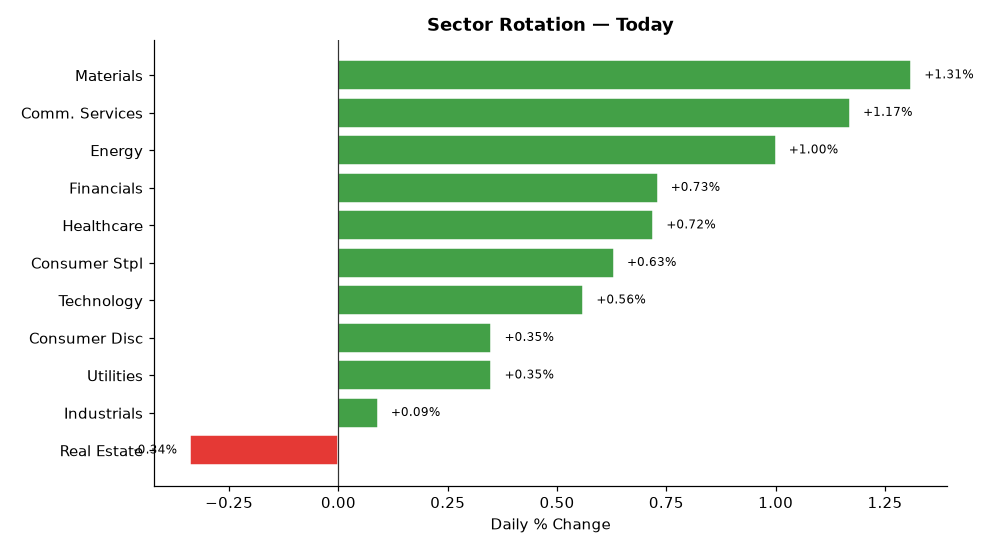
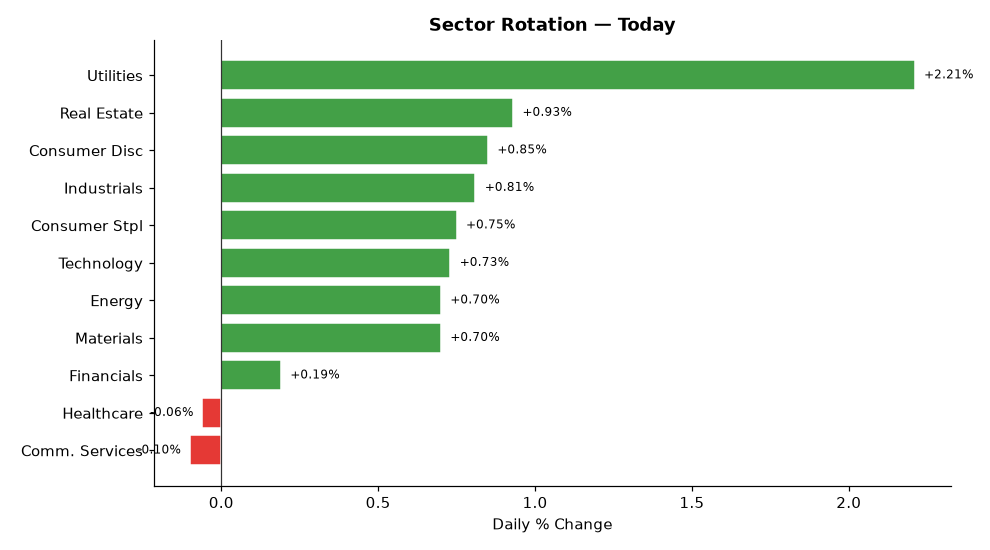
deploy: b7fadf5b06deb90e7ebb92f278722414bdd9750d

diff --git a/index.html b/index.html
@@ -4,7 +4,7 @@
   <meta charset="UTF-8">
   <meta name="viewport" content="width=device-width,initial-scale=1">
   <meta http-equiv="Cache-Control" content="no-cache,no-store,must-revalidate">
-  <title>Stock Breakout Screener — 2026-10-06 05:44</title>
+  <title>Stock Breakout Screener — 2026-10-06 18:44</title>
   <style>
     *{box-sizing:border-box;margin:0;padding:0}
     body{font-family:'Segoe UI',Arial,sans-serif;background:#f0f2f5;
@@ -34,7 +34,7 @@
 
 <div class="hdr">
   <h1>📈 Stock Breakout Screener</h1>
-  <p>Updated: 2026-10-06 05:44 UTC &nbsp;·&nbsp; Phase: Pre-Market (before 9:30 AM ET) &nbsp;·&nbsp;
+  <p>Updated: 2026-10-06 18:44 UTC &nbsp;·&nbsp; Phase: Regular Market Hours &nbsp;·&nbsp;
      129 stocks screened &nbsp;·&nbsp; Top 5 by conviction score</p>
 </div>
 
@@ -42,13 +42,13 @@
   <strong style="font-size:14px">Market Sentiment: 🐻 Bearish</strong>
   <div class="bar-wrap" style="margin-top:10px">
     <div style="width:0%;background:#43a047"></div>
-    <div style="width:5%;background:#fdd835"></div>
-    <div style="width:95%;background:#e53935"></div>
+    <div style="width:7%;background:#fdd835"></div>
+    <div style="width:93%;background:#e53935"></div>
   </div>
   <div style="font-size:12px;color:#555">
     🟢 Strong 0% &nbsp;
-    🟡 Moderate 5% &nbsp;
-    🔴 Weak 95%
+    🟡 Moderate 7% &nbsp;
+    🔴 Weak 93%
   </div>
 </div>
 
@@ -65,11 +65,11 @@
             <span style="margin-left:auto;background:#1a237e;color:#fff;
                          padding:3px 12px;border-radius:12px;
                          font-size:13px;font-weight:600">
-              9/17
+              10/17
             </span>
           </div>
           <ul style="margin:0;padding-left:18px;font-size:13px;
-                     color:#333;line-height:1.8"><li style="margin:5px 0"><span style="background:#ffebee;color:#b71c1c;padding:2px 7px;border-radius:4px;font-size:11px;">❌</span> Volume: <b>0.8× average</b> — Above-average activity</li><li style="margin:5px 0"><span style="background:#ffebee;color:#b71c1c;padding:2px 7px;border-radius:4px;font-size:11px;">❌</span> Candle: close <b>$525.18</b> vs open <b>$521.62</b> (+0.7%) — regular market close</li><li style="margin:5px 0"><span style="background:#e8f5e9;color:#2e7d32;padding:2px 7px;border-radius:4px;font-size:11px;">✅</span> 200-Day MA: price <b>$525.18</b> vs MA <b>$436.16</b> — <b>✅ Above</b> long-term trend</li><li style="margin:5px 0"><span style="background:#e8f5e9;color:#2e7d32;padding:2px 7px;border-radius:4px;font-size:11px;">✅</span> Inst. ownership: <b>75.8%</b> · MFI: <b>72.5</b> · Market cap: <b>$3899.7B</b></li><li style="margin:5px 0"><span style="background:#e8f5e9;color:#2e7d32;padding:2px 7px;border-radius:4px;font-size:11px;">✅</span> Last similar breakout: <b>Jul 30, 2026</b> → <b>+10.1%</b> over 10 trading days</li></ul>
+                     color:#333;line-height:1.8"><li style="margin:5px 0"><span style="background:#ffebee;color:#b71c1c;padding:2px 7px;border-radius:4px;font-size:11px;">❌</span> Volume: <b>0.4× average</b> — Above-average activity</li><li style="margin:5px 0"><span style="background:#ffebee;color:#b71c1c;padding:2px 7px;border-radius:4px;font-size:11px;">❌</span> Candle: close <b>$530.79</b> vs open <b>$531.68</b> (-0.2%) — regular market close</li><li style="margin:5px 0"><span style="background:#e8f5e9;color:#2e7d32;padding:2px 7px;border-radius:4px;font-size:11px;">✅</span> 200-Day MA: price <b>$530.79</b> vs MA <b>$436.90</b> — <b>✅ Above</b> long-term trend</li><li style="margin:5px 0"><span style="background:#e8f5e9;color:#2e7d32;padding:2px 7px;border-radius:4px;font-size:11px;">✅</span> Inst. ownership: <b>75.8%</b> · MFI: <b>77.1</b> · Market cap: <b>$3941.8B</b></li><li style="margin:5px 0"><span style="background:#e8f5e9;color:#2e7d32;padding:2px 7px;border-radius:4px;font-size:11px;">✅</span> Last similar breakout: <b>Jul 30, 2026</b> → <b>+10.1%</b> over 10 trading days</li></ul>
         </div>
         <div style="background:#fff;border:1px solid #ddd;border-radius:10px;
                     padding:16px 20px;margin-bottom:12px;
@@ -77,7 +77,24 @@
           <div style="display:flex;align-items:center;gap:10px;
                       flex-wrap:wrap;margin-bottom:10px">
             <span style="font-size:22px">🟡</span>
-            <span style="font-size:19px;font-weight:700">2. META</span>
+            <span style="font-size:19px;font-weight:700">2. AMZN</span>
+            <span style="font-size:12px;color:#666">Consumer Disc</span>
+            <span style="margin-left:auto;background:#1a237e;color:#fff;
+                         padding:3px 12px;border-radius:12px;
+                         font-size:13px;font-weight:600">
+              9/17
+            </span>
+          </div>
+          <ul style="margin:0;padding-left:18px;font-size:13px;
+                     color:#333;line-height:1.8"><li style="margin:5px 0"><span style="background:#ffebee;color:#b71c1c;padding:2px 7px;border-radius:4px;font-size:11px;">❌</span> Volume: <b>0.5× average</b> — Above-average activity</li><li style="margin:5px 0"><span style="background:#ffebee;color:#b71c1c;padding:2px 7px;border-radius:4px;font-size:11px;">❌</span> Candle: close <b>$256.15</b> vs open <b>$253.40</b> (+1.1%) — regular market close</li><li style="margin:5px 0"><span style="background:#e8f5e9;color:#2e7d32;padding:2px 7px;border-radius:4px;font-size:11px;">✅</span> 200-Day MA: price <b>$256.15</b> vs MA <b>$253.21</b> — <b>✅ Above</b> long-term trend</li><li style="margin:5px 0"><span style="background:#e8f5e9;color:#2e7d32;padding:2px 7px;border-radius:4px;font-size:11px;">✅</span> Inst. ownership: <b>68.7%</b> · MFI: <b>64.1</b> · Market cap: <b>$2763.0B</b></li></ul>
+        </div>
+        <div style="background:#fff;border:1px solid #ddd;border-radius:10px;
+                    padding:16px 20px;margin-bottom:12px;
+                    box-shadow:0 2px 6px rgba(0,0,0,.07)">
+          <div style="display:flex;align-items:center;gap:10px;
+                      flex-wrap:wrap;margin-bottom:10px">
+            <span style="font-size:22px">🟡</span>
+            <span style="font-size:19px;font-weight:700">3. META</span>
             <span style="font-size:12px;color:#666">Comm. Services</span>
             <span style="margin-left:auto;background:#1a237e;color:#fff;
                          padding:3px 12px;border-radius:12px;
@@ -86,7 +103,7 @@
             </span>
           </div>
           <ul style="margin:0;padding-left:18px;font-size:13px;
-                     color:#333;line-height:1.8"><li style="margin:5px 0"><span style="background:#ffebee;color:#b71c1c;padding:2px 7px;border-radius:4px;font-size:11px;">❌</span> Volume: <b>0.8× average</b> — Above-average activity</li><li style="margin:5px 0"><span style="background:#ffebee;color:#b71c1c;padding:2px 7px;border-radius:4px;font-size:11px;">❌</span> Candle: close <b>$741.90</b> vs open <b>$727.71</b> (+1.9%) — regular market close</li><li style="margin:5px 0"><span style="background:#e8f5e9;color:#2e7d32;padding:2px 7px;border-radius:4px;font-size:11px;">✅</span> 200-Day MA: price <b>$741.90</b> vs MA <b>$620.60</b> — <b>✅ Above</b> long-term trend</li><li style="margin:5px 0"><span style="background:#e8f5e9;color:#2e7d32;padding:2px 7px;border-radius:4px;font-size:11px;">✅</span> Inst. ownership: <b>79.0%</b> · MFI: <b>67.1</b> · Market cap: <b>$1890.0B</b></li><li style="margin:5px 0"><span style="background:#fffde7;color:#f57f17;padding:2px 7px;border-radius:4px;font-size:11px;">⚠</span> Last similar breakout: <b>Sep 21, 2026</b> → <b>+0.1%</b> over 10 trading days</li></ul>
+                     color:#333;line-height:1.8"><li style="margin:5px 0"><span style="background:#ffebee;color:#b71c1c;padding:2px 7px;border-radius:4px;font-size:11px;">❌</span> Volume: <b>0.4× average</b> — Above-average activity</li><li style="margin:5px 0"><span style="background:#ffebee;color:#b71c1c;padding:2px 7px;border-radius:4px;font-size:11px;">❌</span> Candle: close <b>$742.91</b> vs open <b>$746.80</b> (-0.5%) — regular market close</li><li style="margin:5px 0"><span style="background:#e8f5e9;color:#2e7d32;padding:2px 7px;border-radius:4px;font-size:11px;">✅</span> 200-Day MA: price <b>$742.91</b> vs MA <b>$621.55</b> — <b>✅ Above</b> long-term trend</li><li style="margin:5px 0"><span style="background:#e8f5e9;color:#2e7d32;padding:2px 7px;border-radius:4px;font-size:11px;">✅</span> Inst. ownership: <b>79.0%</b> · MFI: <b>66.2</b> · Market cap: <b>$1892.5B</b></li><li style="margin:5px 0"><span style="background:#fffde7;color:#f57f17;padding:2px 7px;border-radius:4px;font-size:11px;">⚠</span> Last similar breakout: <b>Sep 21, 2026</b> → <b>+0.1%</b> over 10 trading days</li></ul>
         </div>
         <div style="background:#fff;border:1px solid #ddd;border-radius:10px;
                     padding:16px 20px;margin-bottom:12px;
@@ -94,8 +111,8 @@
           <div style="display:flex;align-items:center;gap:10px;
                       flex-wrap:wrap;margin-bottom:10px">
             <span style="font-size:22px">🟡</span>
-            <span style="font-size:19px;font-weight:700">3. VLO</span>
-            <span style="font-size:12px;color:#666">Energy</span>
+            <span style="font-size:19px;font-weight:700">4. CSCO</span>
+            <span style="font-size:12px;color:#666">Technology</span>
             <span style="margin-left:auto;background:#1a237e;color:#fff;
                          padding:3px 12px;border-radius:12px;
                          font-size:13px;font-weight:600">
@@ -103,7 +120,7 @@
             </span>
           </div>
           <ul style="margin:0;padding-left:18px;font-size:13px;
-                     color:#333;line-height:1.8"><li style="margin:5px 0"><span style="background:#ffebee;color:#b71c1c;padding:2px 7px;border-radius:4px;font-size:11px;">❌</span> Volume: <b>0.8× average</b> — Above-average activity</li><li style="margin:5px 0"><span style="background:#e8f5e9;color:#2e7d32;padding:2px 7px;border-radius:4px;font-size:11px;">✅</span> Candle: close <b>$419.33</b> vs open <b>$404.99</b> (+3.5%) — regular market close</li><li style="margin:5px 0"><span style="background:#e8f5e9;color:#2e7d32;padding:2px 7px;border-radius:4px;font-size:11px;">✅</span> 200-Day MA: price <b>$419.33</b> vs MA <b>$295.26</b> — <b>✅ Above</b> long-term trend</li><li style="margin:5px 0"><span style="background:#e8f5e9;color:#2e7d32;padding:2px 7px;border-radius:4px;font-size:11px;">✅</span> Inst. ownership: <b>87.1%</b> · MFI: <b>58.6</b> · Market cap: <b>$120.7B</b></li></ul>
+                     color:#333;line-height:1.8"><li style="margin:5px 0"><span style="background:#ffebee;color:#b71c1c;padding:2px 7px;border-radius:4px;font-size:11px;">❌</span> Volume: <b>0.5× average</b> — Above-average activity</li><li style="margin:5px 0"><span style="background:#e8f5e9;color:#2e7d32;padding:2px 7px;border-radius:4px;font-size:11px;">✅</span> Candle: close <b>$117.14</b> vs open <b>$113.54</b> (+3.2%) — regular market close</li><li style="margin:5px 0"><span style="background:#e8f5e9;color:#2e7d32;padding:2px 7px;border-radius:4px;font-size:11px;">✅</span> 200-Day MA: price <b>$117.14</b> vs MA <b>$108.68</b> — <b>✅ Above</b> long-term trend</li><li style="margin:5px 0"><span style="background:#e8f5e9;color:#2e7d32;padding:2px 7px;border-radius:4px;font-size:11px;">✅</span> Inst. ownership: <b>83.4%</b> · MFI: <b>50.9</b> · Market cap: <b>$461.9B</b></li></ul>
         </div>
         <div style="background:#fff;border:1px solid #ddd;border-radius:10px;
                     padding:16px 20px;margin-bottom:12px;
@@ -111,25 +128,8 @@
           <div style="display:flex;align-items:center;gap:10px;
                       flex-wrap:wrap;margin-bottom:10px">
             <span style="font-size:22px">🟡</span>
-            <span style="font-size:19px;font-weight:700">4. ECL</span>
-            <span style="font-size:12px;color:#666">Materials</span>
-            <span style="margin-left:auto;background:#1a237e;color:#fff;
-                         padding:3px 12px;border-radius:12px;
-                         font-size:13px;font-weight:600">
-              9/17
-            </span>
-          </div>
-          <ul style="margin:0;padding-left:18px;font-size:13px;
-                     color:#333;line-height:1.8"><li style="margin:5px 0"><span style="background:#ffebee;color:#b71c1c;padding:2px 7px;border-radius:4px;font-size:11px;">❌</span> Volume: <b>0.6× average</b> — Above-average activity</li><li style="margin:5px 0"><span style="background:#ffebee;color:#b71c1c;padding:2px 7px;border-radius:4px;font-size:11px;">❌</span> Candle: close <b>$277.07</b> vs open <b>$272.06</b> (+1.8%) — regular market close</li><li style="margin:5px 0"><span style="background:#e8f5e9;color:#2e7d32;padding:2px 7px;border-radius:4px;font-size:11px;">✅</span> 200-Day MA: price <b>$277.07</b> vs MA <b>$269.88</b> — <b>✅ Above</b> long-term trend</li><li style="margin:5px 0"><span style="background:#e8f5e9;color:#2e7d32;padding:2px 7px;border-radius:4px;font-size:11px;">✅</span> Inst. ownership: <b>94.1%</b> · MFI: <b>41.8</b> · Market cap: <b>$77.7B</b></li></ul>
-        </div>
-        <div style="background:#fff;border:1px solid #ddd;border-radius:10px;
-                    padding:16px 20px;margin-bottom:12px;
-                    box-shadow:0 2px 6px rgba(0,0,0,.07)">
-          <div style="display:flex;align-items:center;gap:10px;
-                      flex-wrap:wrap;margin-bottom:10px">
-            <span style="font-size:22px">🟡</span>
-            <span style="font-size:19px;font-weight:700">5. PSX</span>
-            <span style="font-size:12px;color:#666">Energy</span>
+            <span style="font-size:19px;font-weight:700">5. AAPL</span>
+            <span style="font-size:12px;color:#666">Technology</span>
             <span style="margin-left:auto;background:#1a237e;color:#fff;
                          padding:3px 12px;border-radius:12px;
                          font-size:13px;font-weight:600">
@@ -137,7 +137,7 @@
             </span>
           </div>
           <ul style="margin:0;padding-left:18px;font-size:13px;
-                     color:#333;line-height:1.8"><li style="margin:5px 0"><span style="background:#ffebee;color:#b71c1c;padding:2px 7px;border-radius:4px;font-size:11px;">❌</span> Volume: <b>0.7× average</b> — Above-average activity</li><li style="margin:5px 0"><span style="background:#ffebee;color:#b71c1c;padding:2px 7px;border-radius:4px;font-size:11px;">❌</span> Candle: close <b>$269.72</b> vs open <b>$264.60</b> (+1.9%) — regular market close</li><li style="margin:5px 0"><span style="background:#e8f5e9;color:#2e7d32;padding:2px 7px;border-radius:4px;font-size:11px;">✅</span> 200-Day MA: price <b>$269.72</b> vs MA <b>$201.68</b> — <b>✅ Above</b> long-term trend</li><li style="margin:5px 0"><span style="background:#e8f5e9;color:#2e7d32;padding:2px 7px;border-radius:4px;font-size:11px;">✅</span> Inst. ownership: <b>80.5%</b> · MFI: <b>65.3</b> · Market cap: <b>$108.1B</b></li></ul>
+                     color:#333;line-height:1.8"><li style="margin:5px 0"><span style="background:#ffebee;color:#b71c1c;padding:2px 7px;border-radius:4px;font-size:11px;">❌</span> Volume: <b>0.3× average</b> — Above-average activity</li><li style="margin:5px 0"><span style="background:#ffebee;color:#b71c1c;padding:2px 7px;border-radius:4px;font-size:11px;">❌</span> Candle: close <b>$333.48</b> vs open <b>$332.30</b> (+0.4%) — regular market close</li><li style="margin:5px 0"><span style="background:#e8f5e9;color:#2e7d32;padding:2px 7px;border-radius:4px;font-size:11px;">✅</span> 200-Day MA: price <b>$333.48</b> vs MA <b>$305.32</b> — <b>✅ Above</b> long-term trend</li><li style="margin:5px 0"><span style="background:#e8f5e9;color:#2e7d32;padding:2px 7px;border-radius:4px;font-size:11px;">✅</span> Inst. ownership: <b>66.3%</b> · MFI: <b>72.4</b> · Market cap: <b>$4867.0B</b></li></ul>
         </div>
 
 
@@ -169,89 +169,89 @@
         <tr>
           <td style="font-weight:700;text-align:left;padding-left:10px">
             🟡 MSFT</td>
-          <td style="background:#ffcdd2">0.8×</td>
-          <td style="background:#ffcdd2">+0.7%</td>
+          <td style="background:#ffcdd2">0.4×</td>
+          <td style="background:#ffcdd2">-0.2%</td>
           <td style="background:#c8e6c9">
             ▲ Above</td>
           <td style="background:#c8e6c9">
             75.8%</td>
           <td style="background:#c8e6c9">
-            72.5</td>
+            77.1</td>
           <td style="background:#ffcdd2">Technology</td>
-          <td style="background:#ffcdd2">
-            4.9%</td>
+          <td style="background:#c8e6c9">
+            65.8%</td>
           <td style="background:#c8e6c9">
             +10.1%</td>
+          <td style="font-weight:800;font-size:15px">10/17</td>
+        </tr>
+        <tr>
+          <td style="font-weight:700;text-align:left;padding-left:10px">
+            🟡 AMZN</td>
+          <td style="background:#ffcdd2">0.5×</td>
+          <td style="background:#ffcdd2">+1.1%</td>
+          <td style="background:#c8e6c9">
+            ▲ Above</td>
+          <td style="background:#c8e6c9">
+            68.7%</td>
+          <td style="background:#c8e6c9">
+            64.1</td>
+          <td style="background:#fff9c4">Consumer Disc</td>
+          <td style="background:#c8e6c9">
+            78.6%</td>
+          <td style="background:#ffcdd2">
+            N/A</td>
           <td style="font-weight:800;font-size:15px">9/17</td>
         </tr>
         <tr>
           <td style="font-weight:700;text-align:left;padding-left:10px">
             🟡 META</td>
-          <td style="background:#ffcdd2">0.8×</td>
-          <td style="background:#ffcdd2">+1.9%</td>
+          <td style="background:#ffcdd2">0.4×</td>
+          <td style="background:#ffcdd2">-0.5%</td>
           <td style="background:#c8e6c9">
             ▲ Above</td>
           <td style="background:#c8e6c9">
             79.0%</td>
           <td style="background:#c8e6c9">
-            67.1</td>
-          <td style="background:#fff9c4">Comm. Services</td>
-          <td style="background:#ffcdd2">
-            10.5%</td>
+            66.2</td>
+          <td style="background:#ffcdd2">Comm. Services</td>
+          <td style="background:#c8e6c9">
+            68.1%</td>
           <td style="background:#fff9c4">
             +0.1%</td>
           <td style="font-weight:800;font-size:15px">9/17</td>
         </tr>
         <tr>
           <td style="font-weight:700;text-align:left;padding-left:10px">
-            🟡 VLO</td>
-          <td style="background:#ffcdd2">0.8×</td>
-          <td style="background:#c8e6c9">+3.5%</td>
+            🟡 CSCO</td>
+          <td style="background:#ffcdd2">0.5×</td>
+          <td style="background:#c8e6c9">+3.2%</td>
           <td style="background:#c8e6c9">
             ▲ Above</td>
           <td style="background:#c8e6c9">
-            87.1%</td>
+            83.4%</td>
           <td style="background:#fff9c4">
-            58.6</td>
-          <td style="background:#fff9c4">Energy</td>
-          <td style="background:#ffcdd2">
-            5.4%</td>
-          <td style="background:#ffcdd2">
-            N/A</td>
-          <td style="font-weight:800;font-size:15px">9/17</td>
-        </tr>
-        <tr>
-          <td style="font-weight:700;text-align:left;padding-left:10px">
-            🟡 ECL</td>
-          <td style="background:#ffcdd2">0.6×</td>
-          <td style="background:#ffcdd2">+1.8%</td>
+            50.9</td>
+          <td style="background:#ffcdd2">Technology</td>
           <td style="background:#c8e6c9">
-            ▲ Above</td>
-          <td style="background:#c8e6c9">
-            94.1%</td>
-          <td style="background:#ffcdd2">
-            41.8</td>
-          <td style="background:#c8e6c9">Materials</td>
-          <td style="background:#c8e6c9">
-            50.4%</td>
+            66.7%</td>
           <td style="background:#ffcdd2">
             N/A</td>
           <td style="font-weight:800;font-size:15px">9/17</td>
         </tr>
         <tr>
           <td style="font-weight:700;text-align:left;padding-left:10px">
-            🟡 PSX</td>
-          <td style="background:#ffcdd2">0.7×</td>
-          <td style="background:#ffcdd2">+1.9%</td>
+            🟡 AAPL</td>
+          <td style="background:#ffcdd2">0.3×</td>
+          <td style="background:#ffcdd2">+0.4%</td>
           <td style="background:#c8e6c9">
             ▲ Above</td>
           <td style="background:#c8e6c9">
-            80.5%</td>
+            66.3%</td>
           <td style="background:#c8e6c9">
-            65.3</td>
-          <td style="background:#fff9c4">Energy</td>
-          <td style="background:#ffcdd2">
-            5.1%</td>
+            72.4</td>
+          <td style="background:#ffcdd2">Technology</td>
+          <td style="background:#c8e6c9">
+            41.8%</td>
           <td style="background:#ffcdd2">
             N/A</td>
           <td style="font-weight:800;font-size:15px">8/17</td>
@@ -277,58 +277,58 @@
       
         <tr>
           <td style="text-align:left;padding-left:10px;font-weight:600">
-            #1 Materials</td>
-          <td style="background:#e8f5e9;color:#2e7d32;font-weight:700">+1.31%</td>
+            #1 Utilities</td>
+          <td style="background:#e8f5e9;color:#2e7d32;font-weight:700">+2.21%</td>
         </tr>
         <tr>
           <td style="text-align:left;padding-left:10px;font-weight:600">
-            #2 Comm. Services</td>
-          <td style="background:#e8f5e9;color:#2e7d32;font-weight:700">+1.17%</td>
+            #2 Real Estate</td>
+          <td style="background:#e8f5e9;color:#2e7d32;font-weight:700">+0.93%</td>
         </tr>
         <tr>
           <td style="text-align:left;padding-left:10px;font-weight:600">
-            #3 Energy</td>
-          <td style="background:#e8f5e9;color:#2e7d32;font-weight:700">+1.00%</td>
+            #3 Consumer Disc</td>
+          <td style="background:#e8f5e9;color:#2e7d32;font-weight:700">+0.85%</td>
         </tr>
         <tr>
           <td style="text-align:left;padding-left:10px;font-weight:600">
-            #4 Financials</td>
+            #4 Industrials</td>
+          <td style="background:#e8f5e9;color:#2e7d32;font-weight:700">+0.81%</td>
+        </tr>
+        <tr>
+          <td style="text-align:left;padding-left:10px;font-weight:600">
+            #5 Consumer Stpl</td>
+          <td style="background:#e8f5e9;color:#2e7d32;font-weight:700">+0.75%</td>
+        </tr>
+        <tr>
+          <td style="text-align:left;padding-left:10px;font-weight:600">
+            #6 Technology</td>
           <td style="background:#e8f5e9;color:#2e7d32;font-weight:700">+0.73%</td>
         </tr>
         <tr>
           <td style="text-align:left;padding-left:10px;font-weight:600">
-            #5 Healthcare</td>
-          <td style="background:#e8f5e9;color:#2e7d32;font-weight:700">+0.72%</td>
+            #7 Energy</td>
+          <td style="background:#e8f5e9;color:#2e7d32;font-weight:700">+0.70%</td>
         </tr>
         <tr>
           <td style="text-align:left;padding-left:10px;font-weight:600">
-            #6 Consumer Stpl</td>
-          <td style="background:#e8f5e9;color:#2e7d32;font-weight:700">+0.63%</td>
+            #8 Materials</td>
+          <td style="background:#e8f5e9;color:#2e7d32;font-weight:700">+0.70%</td>
         </tr>
         <tr>
           <td style="text-align:left;padding-left:10px;font-weight:600">
-            #7 Technology</td>
-          <td style="background:#e8f5e9;color:#2e7d32;font-weight:700">+0.56%</td>
+            #9 Financials</td>
+          <td style="background:#e8f5e9;color:#2e7d32;font-weight:700">+0.19%</td>
         </tr>
         <tr>
           <td style="text-align:left;padding-left:10px;font-weight:600">
-            #8 Consumer Disc</td>
-          <td style="background:#e8f5e9;color:#2e7d32;font-weight:700">+0.35%</td>
+            #10 Healthcare</td>
+          <td style="background:#ffebee;color:#c62828;font-weight:700">-0.06%</td>
         </tr>
         <tr>
           <td style="text-align:left;padding-left:10px;font-weight:600">
-            #9 Utilities</td>
-          <td style="background:#e8f5e9;color:#2e7d32;font-weight:700">+0.35%</td>
-        </tr>
-        <tr>
-          <td style="text-align:left;padding-left:10px;font-weight:600">
-            #10 Industrials</td>
-          <td style="background:#e8f5e9;color:#2e7d32;font-weight:700">+0.09%</td>
-        </tr>
-        <tr>
-          <td style="text-align:left;padding-left:10px;font-weight:600">
-            #11 Real Estate</td>
-          <td style="background:#ffebee;color:#c62828;font-weight:700">-0.34%</td>
+            #11 Comm. Services</td>
+          <td style="background:#ffebee;color:#c62828;font-weight:700">-0.10%</td>
         </tr>
     </table>
   </div>
@@ -367,7 +367,7 @@
         <li><b>Scoring weights:</b>
             Inst.Own(3) · Sector(3) · Volume(2) · Breakout(2) ·
             MA200(2) · MFI(2) · History(2) · IV(1) = 17pts max</li>
-        <li><b>Run time:</b> 2026-10-06 05:44 UTC — Market phase: Pre-Market (before 9:30 AM ET)</li>
+        <li><b>Run time:</b> 2026-10-06 18:44 UTC — Market phase: Regular Market Hours</li>
       </ul>
     </div>
 
